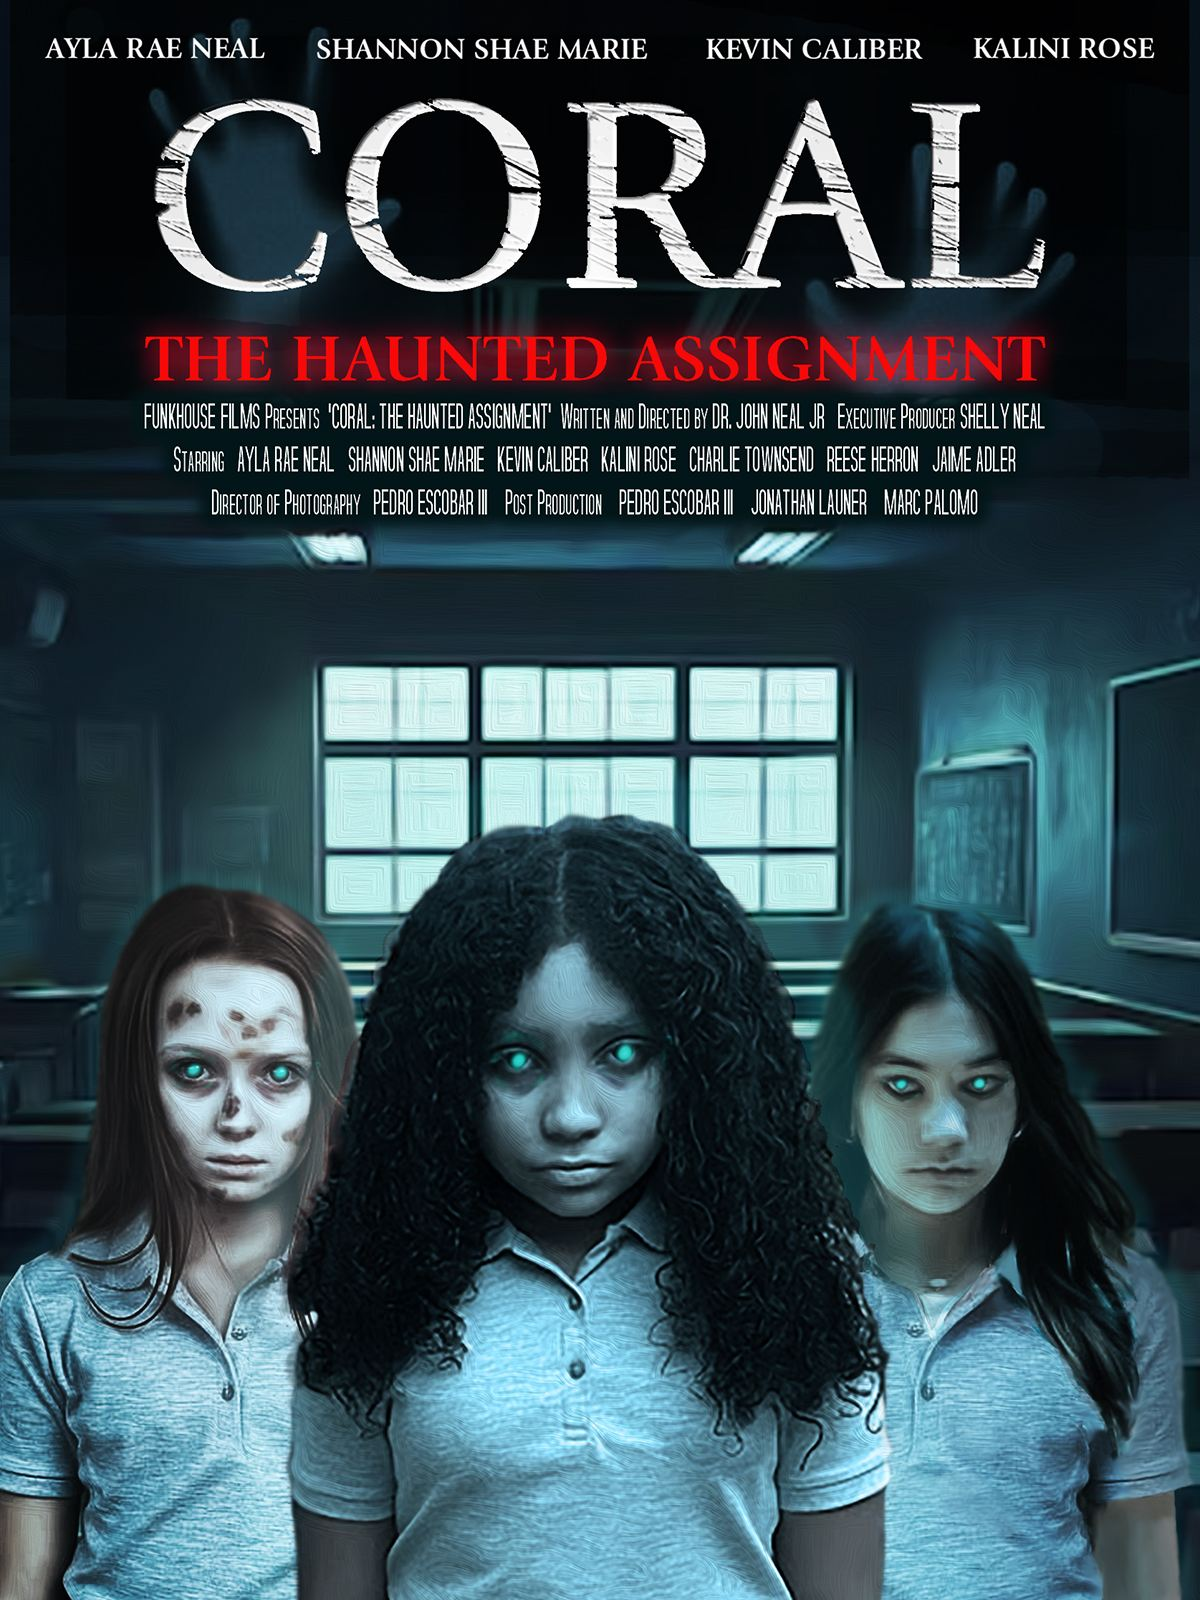
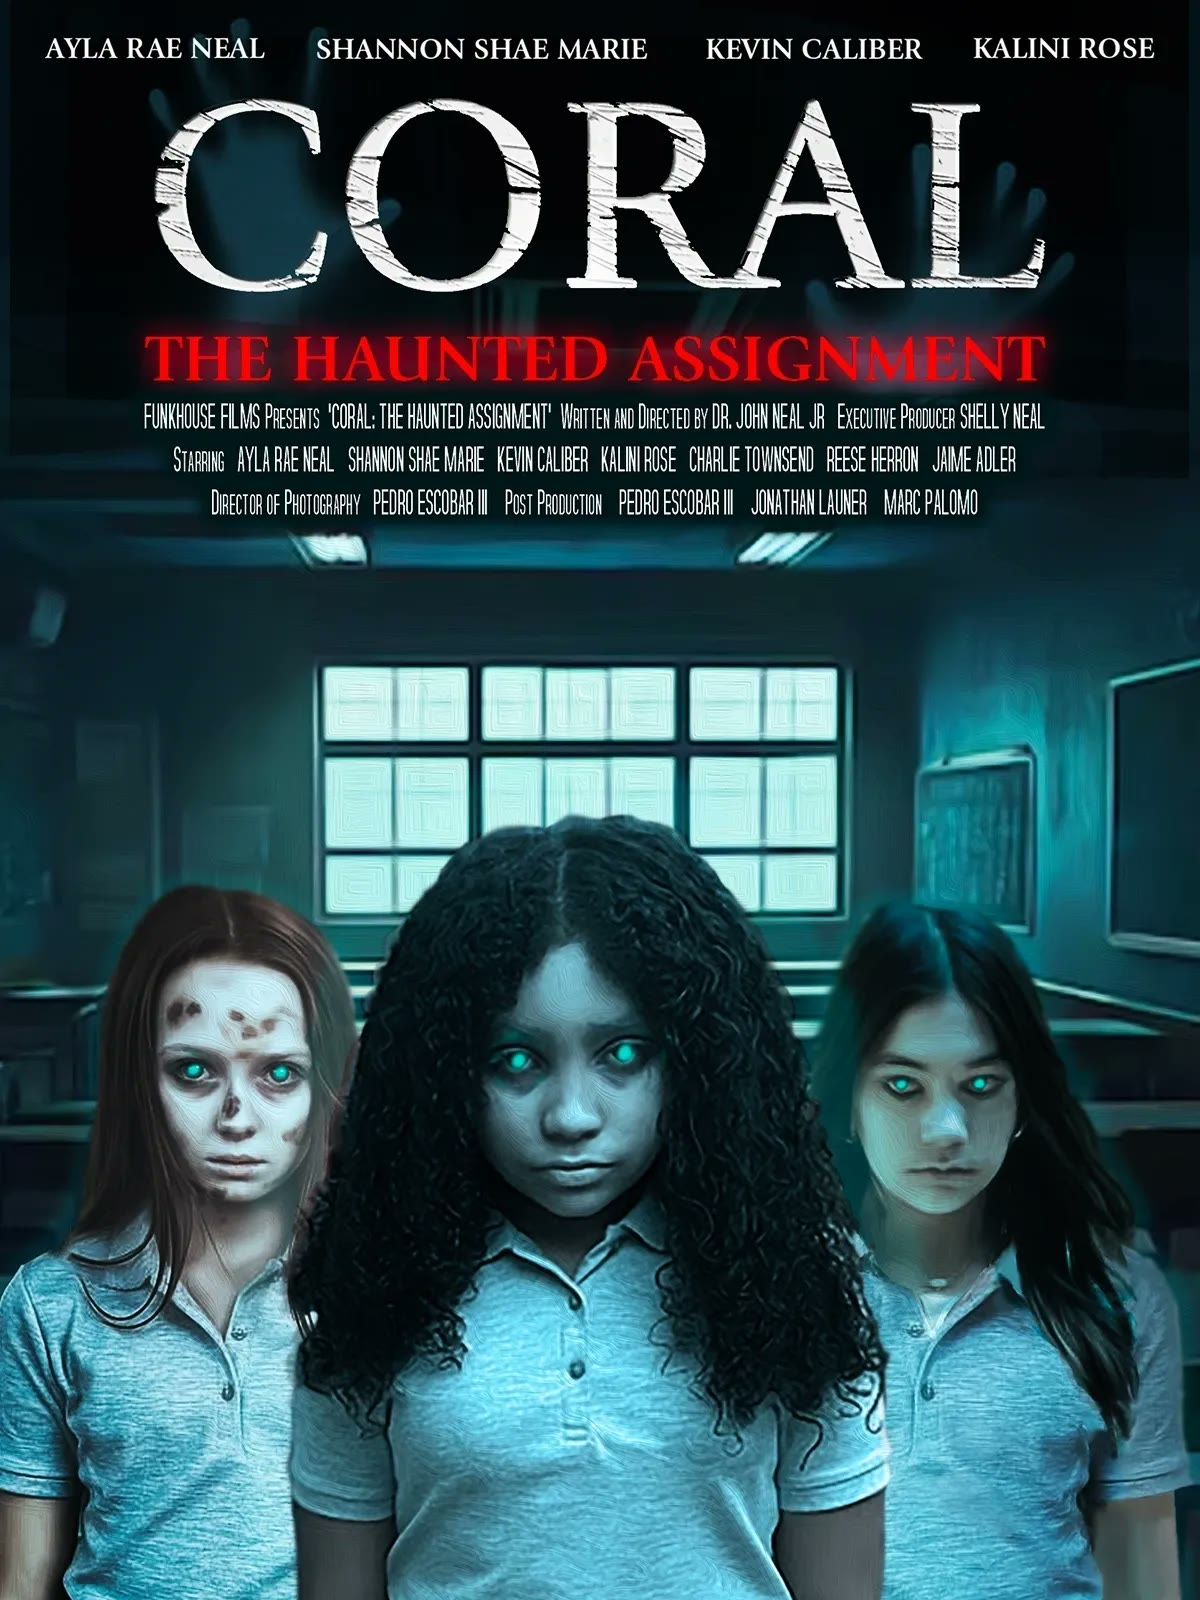
Add real photography: updated poster, director portraits, press clipping, speaking gallery
- Replace Coral poster with the higher-resolution theatrical version (same
  filename, updates everywhere it's already referenced)
- director.html: real environmental director portrait (was a generic
  stock mood shot); new "In the Field" section with 5 real speaking-
  engagement photos backing up The Speaker/Educator personas
- awards.html: add real Marina Del Rey Film Festival red-carpet press
  photo (Popsize feature) to the Festival Moments gallery
- internship.html: swap generic stock photo for a real mentorship/
  collaboration photo on the "Real Mentors" card
- Note: djn-portrait-headshot.jpg is included as an available asset but
  not placed — the site's director-portrait containers are wide, and
  the square studio headshot crops too tight (chin/eyes only) in them

diff --git a/director.html b/director.html
@@ -79,7 +79,7 @@
     <section class="section-gap">
       <div class="container-default">
         <div class="director-intro">
-          <div class="director-portrait" data-reveal><img src="assets/img/djn-empty-stage.jpg" loading="lazy" alt="Dr. John Neal Jr. on stage"></div>
+          <div class="director-portrait" data-reveal><img src="assets/img/djn-portrait-office.jpg" loading="lazy" alt="Dr. John Neal Jr."></div>
           <div data-reveal data-delay="0.06">
             <div class="section-title-caption">The Vision Behind the Stories</div>
             <h3 class="title-serif" style="margin-top:16px; margin-bottom:18px;">Every story is a world. Every world deserves to be built with intention.</h3>
@@ -155,6 +155,27 @@
           </div>
         </div>
 
+      </div>
+    </section>
+
+    <!-- IN THE FIELD (real speaking engagement photos) -->
+    <section class="section-gap-top section-gap-bottom bg-surface">
+      <div class="container-default">
+        <div class="section-title-wrapper">
+          <div class="section-title-inner">
+            <div class="section-title-block">
+              <div class="gradient-text-wrapper"><h2 class="section-title">In the Field</h2></div>
+              <div class="title-animation-overlay"></div>
+            </div>
+          </div>
+        </div>
+        <div class="festival-band" data-reveal="up" data-stagger>
+          <div class="parallax-frame square" data-parallax data-speed="10"><img src="assets/img/speaking-1.jpg" loading="lazy" alt="Dr. John Neal Jr. speaking to a school assembly"></div>
+          <div class="parallax-frame square" data-parallax data-speed="14"><img src="assets/img/speaking-2.jpg" loading="lazy" alt="Dr. John Neal Jr. speaking on stage"></div>
+          <div class="parallax-frame square" data-parallax data-speed="12"><img src="assets/img/speaking-3.jpg" loading="lazy" alt="Dr. John Neal Jr. leading a leadership workshop"></div>
+          <div class="parallax-frame square" data-parallax data-speed="18"><img src="assets/img/speaking-4.jpg" loading="lazy" alt="Dr. John Neal Jr. speaking on stage"></div>
+          <div class="parallax-frame square" data-parallax data-speed="16"><img src="assets/img/speaking-5.jpg" loading="lazy" alt="Dr. John Neal Jr. speaking to a school gymnasium"></div>
+        </div>
       </div>
     </section>
 

diff --git a/internship.html b/internship.html
@@ -99,7 +99,7 @@
           <div class="game-card-block" data-reveal><div class="game-thumbnail-wrapper"><div class="game-thumbnail-inner"><img src="assets/img/onset-1.jpg" loading="lazy" alt="On set" class="game-thumbnail"></div></div><div class="game-card-content-block"><h4 class="highlight-card-title">Real Sets</h4><div class="game-card-meta-wrapper"><div class="game-card-meta">Production</div></div></div></div>
           <div class="game-card-block" data-reveal data-delay="0.06"><div class="game-thumbnail-wrapper"><div class="game-thumbnail-inner"><img src="assets/img/onset-6.jpg" loading="lazy" alt="On set" class="game-thumbnail"></div></div><div class="game-card-content-block"><h4 class="highlight-card-title">Real Roles</h4><div class="game-card-meta-wrapper"><div class="game-card-meta">Collaboration</div></div></div></div>
           <div class="game-card-block" data-reveal data-delay="0.12"><div class="game-thumbnail-wrapper"><div class="game-thumbnail-inner"><img src="assets/img/onset-8.jpg" loading="lazy" alt="On set" class="game-thumbnail"></div></div><div class="game-card-content-block"><h4 class="highlight-card-title">Real Projects</h4><div class="game-card-meta-wrapper"><div class="game-card-meta">Hands-on</div></div></div></div>
-          <div class="game-card-block" data-reveal data-delay="0.18"><div class="game-thumbnail-wrapper"><div class="game-thumbnail-inner"><img src="assets/img/directing.jpg" loading="lazy" alt="Directing" class="game-thumbnail"></div></div><div class="game-card-content-block"><h4 class="highlight-card-title">Real Mentors</h4><div class="game-card-meta-wrapper"><div class="game-card-meta">Guidance</div></div></div></div>
+          <div class="game-card-block" data-reveal data-delay="0.18"><div class="game-thumbnail-wrapper"><div class="game-thumbnail-inner"><img src="assets/img/team-collaborators.jpg" loading="lazy" alt="Mentorship and collaboration" class="game-thumbnail"></div></div><div class="game-card-content-block"><h4 class="highlight-card-title">Real Mentors</h4><div class="game-card-meta-wrapper"><div class="game-card-meta">Guidance</div></div></div></div>
         </div>
       </div>
     </section>

diff --git a/awards.html b/awards.html
@@ -133,6 +133,7 @@
           <div class="parallax-frame square" data-parallax data-speed="14"><img src="assets/img/coral-sm-10.jpg" loading="lazy" alt="Coral at the festival"></div>
           <div class="parallax-frame square" data-parallax data-speed="12"><img src="assets/img/coral-sm-11.jpg" loading="lazy" alt="Coral at the festival"></div>
           <div class="parallax-frame square" data-parallax data-speed="18"><img src="assets/img/coral-sm-16.jpg" loading="lazy" alt="Coral at the festival"></div>
+          <div class="parallax-frame square" data-parallax data-speed="16"><img src="assets/img/press-popsize-filmfestla.jpg" loading="lazy" alt="Dr. John Neal Jr. and cast at Marina Del Rey Film Festival 2025 — Popsize press feature"></div>
         </div>
       </div>
     </section>
